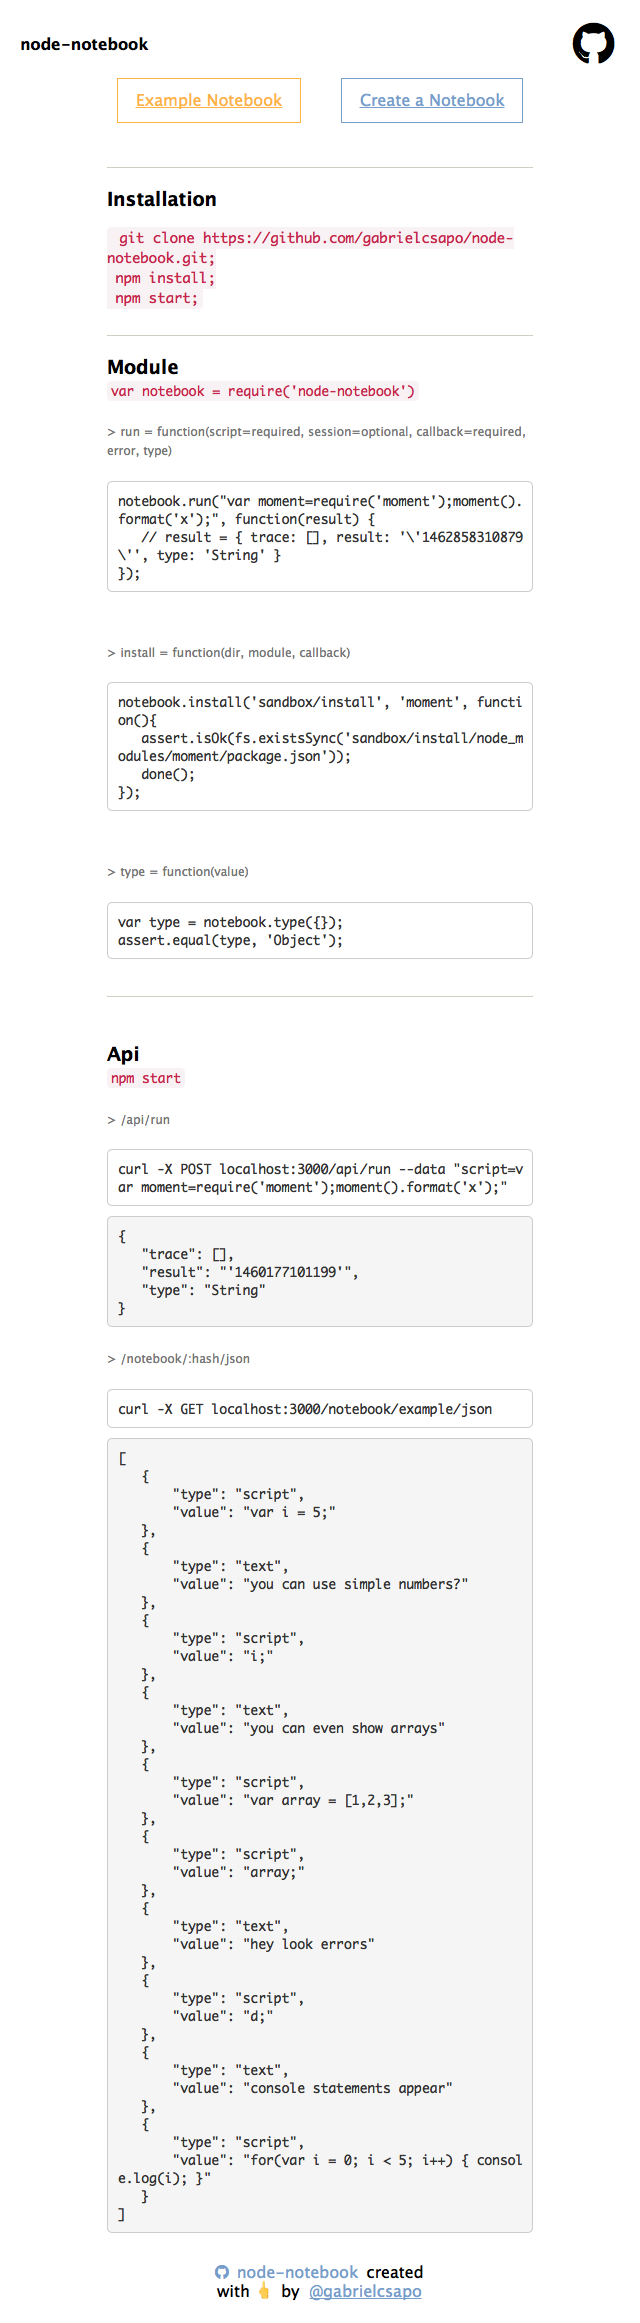
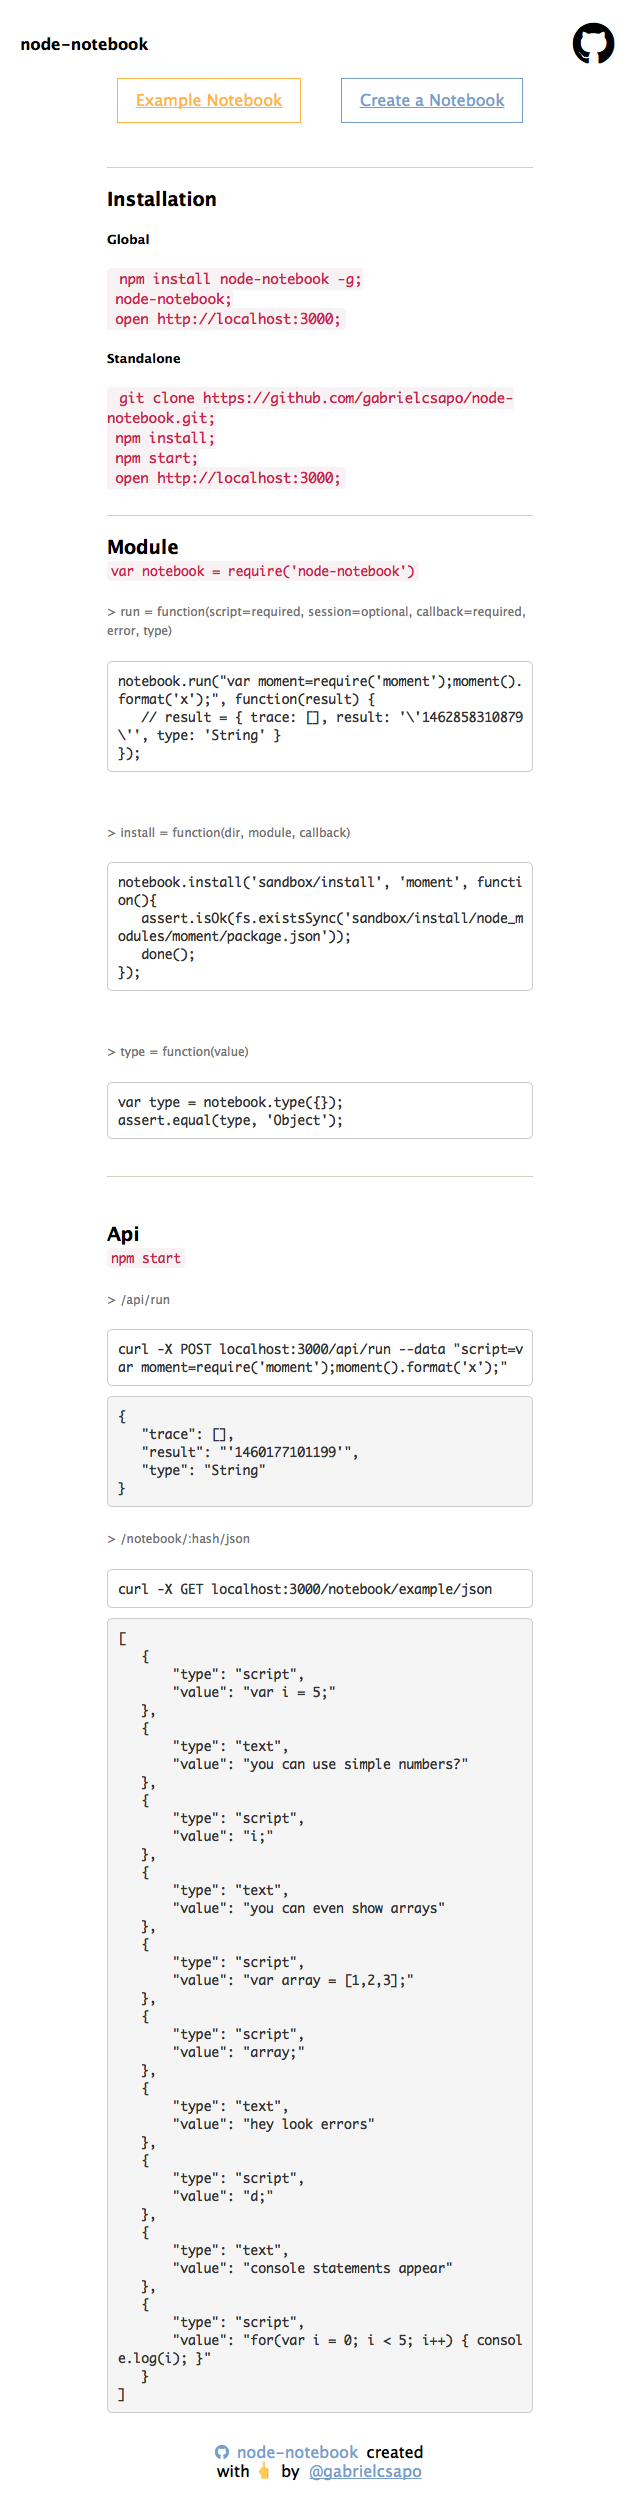
now makes it a globally installable binary

diff --git a/index.html b/index.html
@@ -9,7 +9,7 @@
 </style><style>.code {
     background-color: transparent;
 }
-</style></head><body><div class="navbar"><div class="container"><div class="navbar-title" style="margin-top:35px">node-notebook</div><div class="nav"><a href="https://github.com/gabrielcsapo/node-notebook"><i class="fa fa-3x fa-github"></i></a></div></div></div><div class="grid"><div class="col-2-12"></div><div class="col-8-12" style="position:relative;padding-bottom:80px"><h3>Installation</h3><code>&nbsp;git clone https://github.com/gabrielcsapo/node-notebook.git;<br>&nbsp;npm install;<br>&nbsp;npm start;</code><br><br><hr><h3>Module<br><small><code>var notebook = require('node-notebook')</code></small></h3><h4><small>> run = function(script=required, session=optional, callback=required, error, type)</small></h4><pre class="code">notebook.run("var moment=require('moment');moment().format('x');", function(result) {
+</style></head><body><div class="navbar"><div class="container"><div class="navbar-title" style="margin-top:35px">node-notebook</div><div class="nav"><a href="https://github.com/gabrielcsapo/node-notebook"><i class="fa fa-3x fa-github"></i></a></div></div></div><div class="grid"><div class="col-2-12"></div><div class="col-8-12" style="position:relative;padding-bottom:80px"><h3>Installation</h3><h5>Global</h5><code>&nbsp;npm install node-notebook -g;<br>&nbsp;node-notebook;<br>&nbsp;open http://localhost:3000;</code><h5>Standalone</h5><code>&nbsp;git clone https://github.com/gabrielcsapo/node-notebook.git;<br>&nbsp;npm install;<br>&nbsp;npm start;<br>&nbsp;open http://localhost:3000;</code><br><br><hr><h3>Module<br><small><code>var notebook = require('node-notebook')</code></small></h3><h4><small>> run = function(script=required, session=optional, callback=required, error, type)</small></h4><pre class="code">notebook.run("var moment=require('moment');moment().format('x');", function(result) {
    // result = { trace: [], result: '\'1462858310879\'', type: 'String' }
 });</pre><br><h4><small>> install = function(dir, module, callback)</small></h4><pre class="code">notebook.install('sandbox/install', 'moment', function(){
    assert.isOk(fs.existsSync('sandbox/install/node_modules/moment/package.json'));

diff --git a/bin/node-notebook.js b/bin/node-notebook.js
@@ -1,0 +1,2 @@
+#!/usr/bin/env node
+var app = require('../index');
